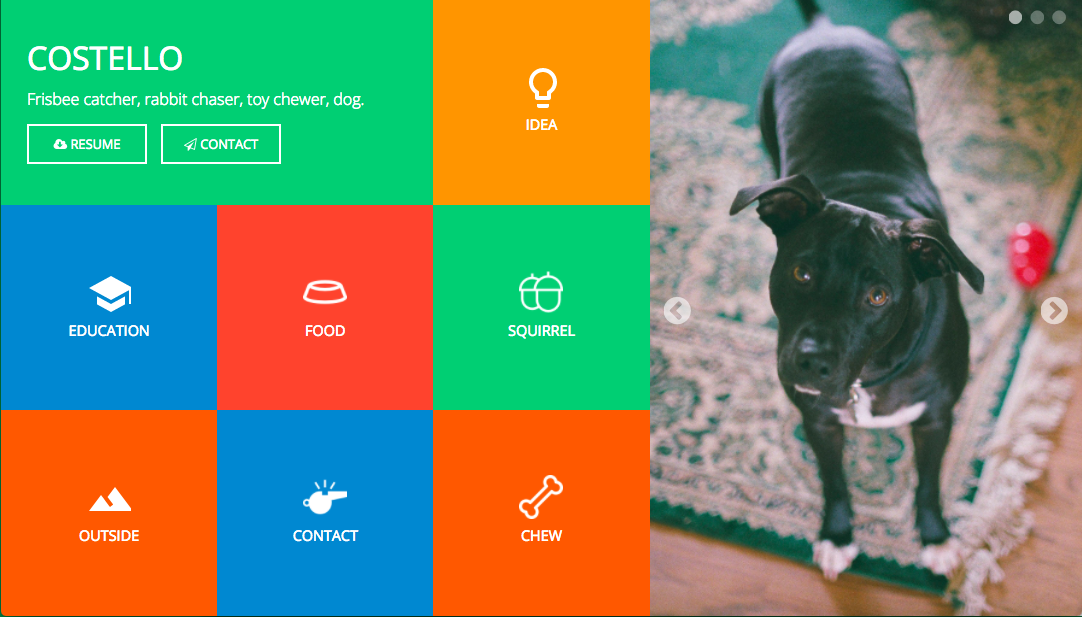
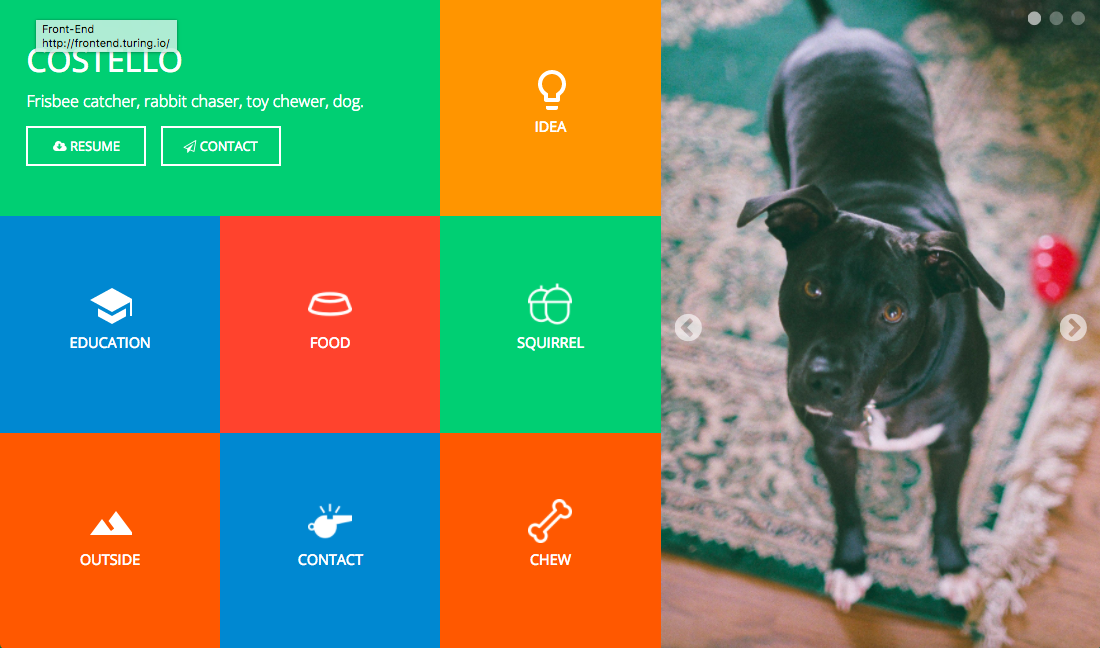
Fix background image positioning and add live link to README.md

diff --git a/styles/style.css b/styles/style.css
@@ -68,15 +68,15 @@ button {
 }
 
 #food {
-  background-position: center;
-  background-size: cover ;
   background: url('../images/bowl-icon.png') no-repeat;
+  background-position: center;
+  background-size: cover;
 }
 
 #squirrel {
-  background-position: center;
-  background-size: cover ;
   background: url('../images/acorns-icon.png') no-repeat;
+  background-position: center;
+  background-size: cover; 
 }
 
 #outside {
@@ -84,15 +84,15 @@ button {
 }
 
 #contact{
+  background: url('../images/whistle.png') no-repeat;
   background-position: center;
   background-size: cover ;
-  background: url('../images/whistle.png') no-repeat;
 }
 
 #chew {
-  background-position: center;
-  background-size: cover ;
   background: url('../images/dog-bone.png') no-repeat;
+  background-position: center;
+  background-size: cover ; 
 }
 
 .content-icon {
@@ -124,9 +124,9 @@ button {
 /* portrait section*/
 
 #portrait-container {
+  background: url(../images/portrait.jpg) no-repeat;
   background-position: center;
   background-size: cover ;
-  background: url(../images/portrait.jpg) no-repeat;
   min-height: 600px;
   overflow-x: hidden;
   position: relative;
@@ -204,9 +204,9 @@ button {
   }
 
   #portrait-mobile-container {
+    background: url(../images/portrait.jpg) no-repeat;
     background-position: center;
     background-size: cover ;
-    background: url(../images/portrait.jpg) no-repeat;
     display: block;
     height: 60vh;
     min-height: 250px;

diff --git a/README.md b/README.md
@@ -6,7 +6,13 @@ Original Comp:
 
 ![Alt text](images/static-comp-challenge-comp.jpg?raw=true "Original Comp")
 
+My rendering:
+
 ![Alt text](images/static-comp-challenge-jl.png?raw=true "Original Comp")
+
+to see a live version visit:
+
+https://jjlljj.github.io/jl-comp-challenge-1/
 
 ## Built with:
 
